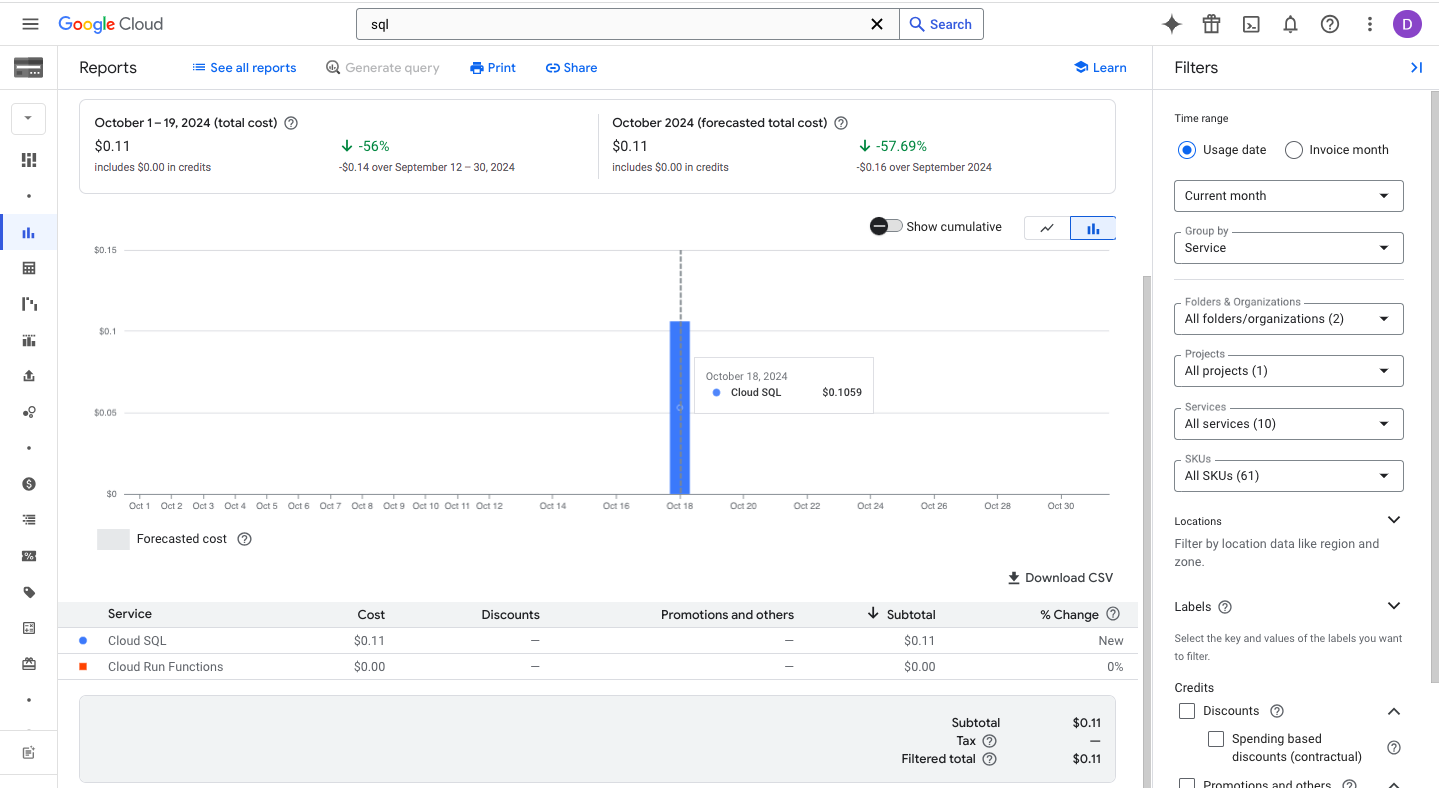
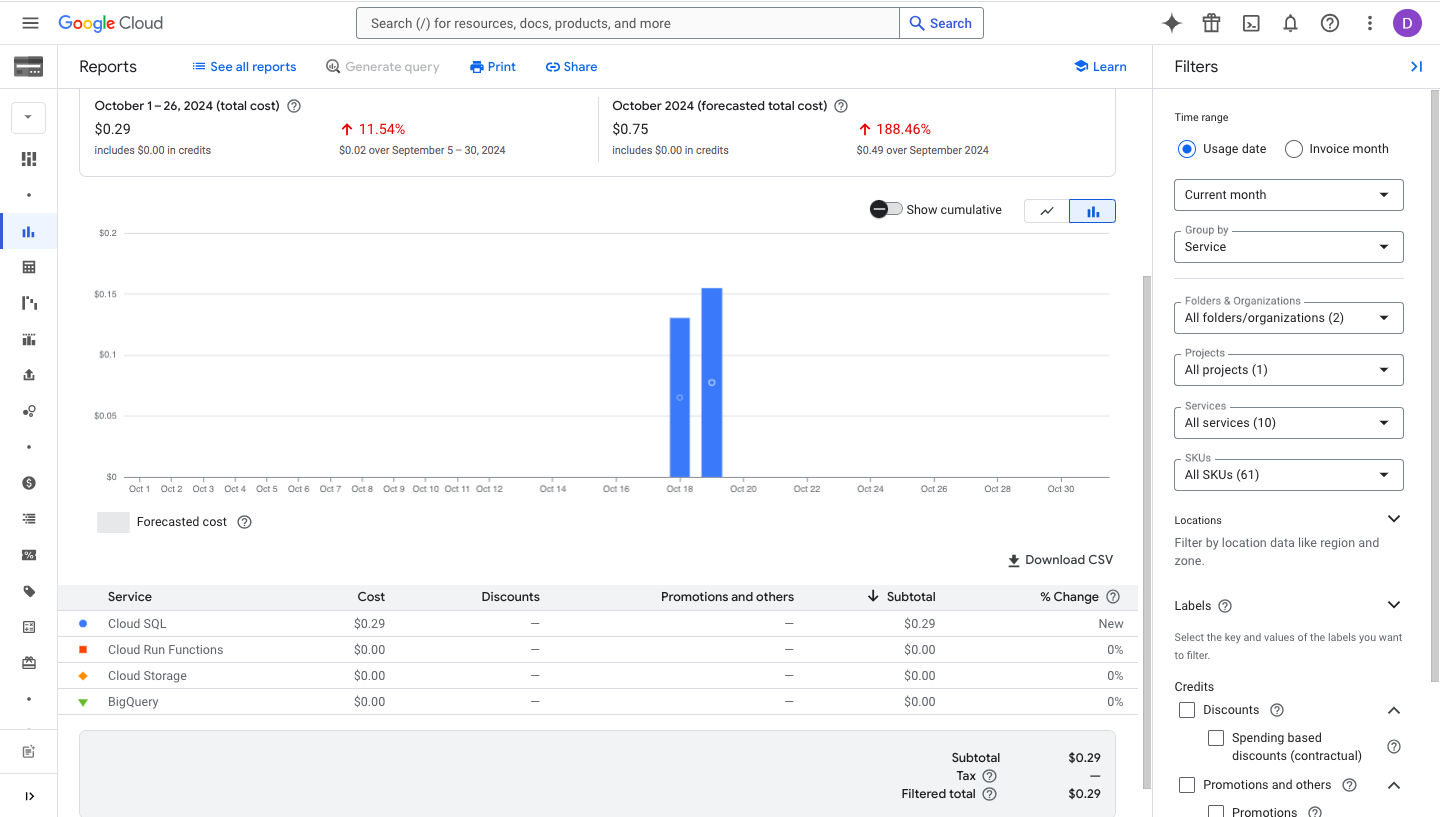
updated final GCP cost

diff --git a/README.md b/README.md
@@ -92,8 +92,7 @@
 1. Click the top left burger icon and click "Billing" in the left panel that opens
 2. In the "Overview" page that appears, the cost and credits used will show
 3. Hover and click on the "Cost" header area to view the details
-    * The cloud SQL instance that was ran for this repo incurred ~$0.11
-        * NOTE: After running the instance yesterday on 10/18/2024, the cost was $0.06 in the morning of the following day and increased to $0.11 later that afternoon. Thus, this may not reflect the final cost, as GCP billing updates could take more time.
+    * The cloud SQL instance that was ran for this repo incurred $0.29
 !["Overview" page](img/gcp/monitoring/cost_overview.png)
 !["Report" page](img/gcp/monitoring/cost_report.png)
 4. The cost of BigQuery itself can be viewed by...
